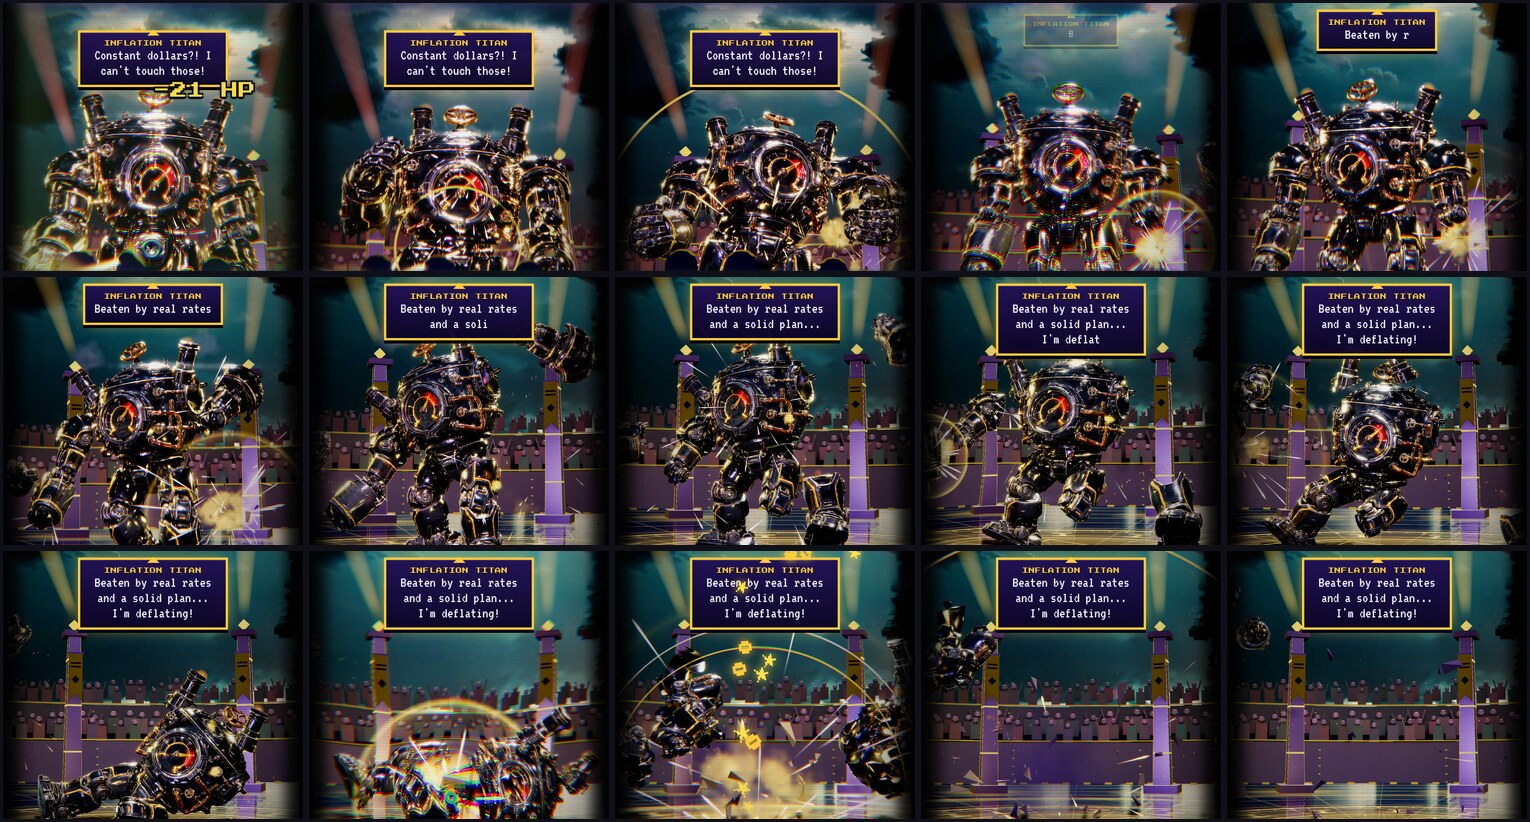
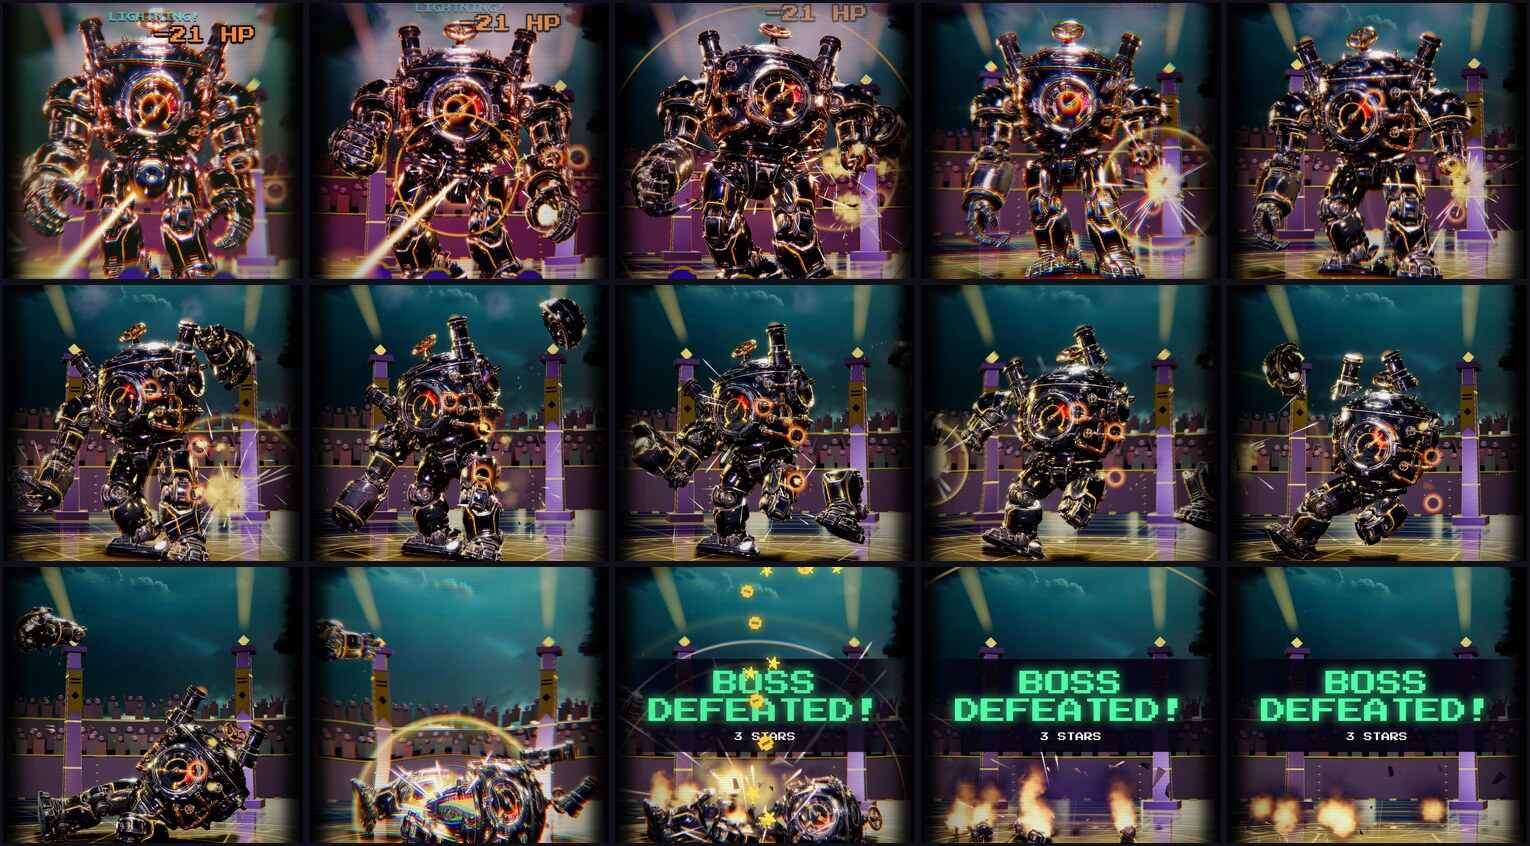
Boss Rush, after the review: final captures of boss 6; STATUS on the deeper shock
Claude-Session: https://claude.ai/code/session_01SXN4PWw2h7NprrScNwTTGU

diff --git a/arcade/docs/combat-pass/boss/STATUS.md b/arcade/docs/combat-pass/boss/STATUS.md
@@ -46,8 +46,9 @@ Major defects, by the review's numbers:
    the game's timers (DEFEATED on its 1.2 s mark, the results on theirs). Every boss's fall now takes the same
    time, so its last blast leaves BOSS DEFEATED! up for 1.6 s; the Proctor's death is bigger, not longer. (The old
    banner was a CSS animation that faded after 1.4 s.) DEFEATED stands low in the screen, clear of the boss's face.
-3. Strikes stopped short. A slam's shock (a white-hot front, its colour behind, three blades of light) runs along
-   the floor to the foot of the picture, where its ring and a jolt land; a wave comes on at the player in rings
+3. Strikes stopped short. A slam's shock (a deep band of its colour behind a white-hot edge: seen along the floor a
+   thin ring all but vanishes; sparks thrown up all along its front; three blades of light) runs along the floor
+   to the foot of the picture, where its ring and a jolt land; a wave comes on at the player in rings
    that grow until they fill the band; the volley's first card, the seekers and the beam end in a flash at the
    player; then the player's hit as before. The kit's pool of ten rings is no longer used up by one strike (that
    was why fronts vanished half way). The HUD's crack was there all along: the capture scenario now steps the
